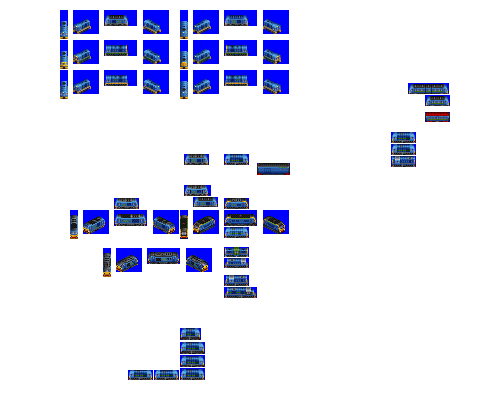
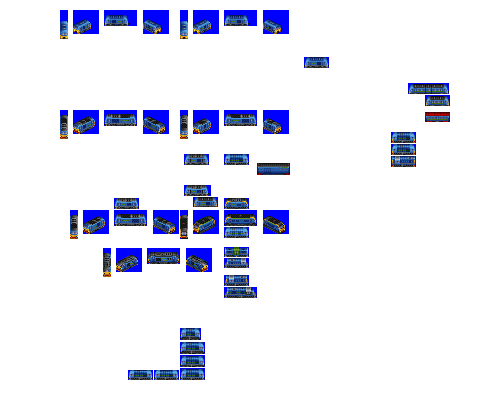
Change: Lebeche sprites complete

Changed region(s): [[0.12, 0.03, 0.66, 0.36], [0.21, 0.03, 0.24, 0.06]]

diff --git a/src/vehicles/pony/lebeche.py b/src/vehicles/pony/lebeche.py
@@ -18,7 +18,7 @@ def main(roster_id, **kwargs):
         extended_vehicle_life=True,  # extended vehicle life for all this generation of NG eh
         # note that livery names are metadata only and can repeat for different spriterows
         #additional_liveries=["SWOOSH", "INDUSTRIAL_YELLOW"],
-        sprites_complete=False,
+        sprites_complete=True,
     )
 
     consist.add_unit(
